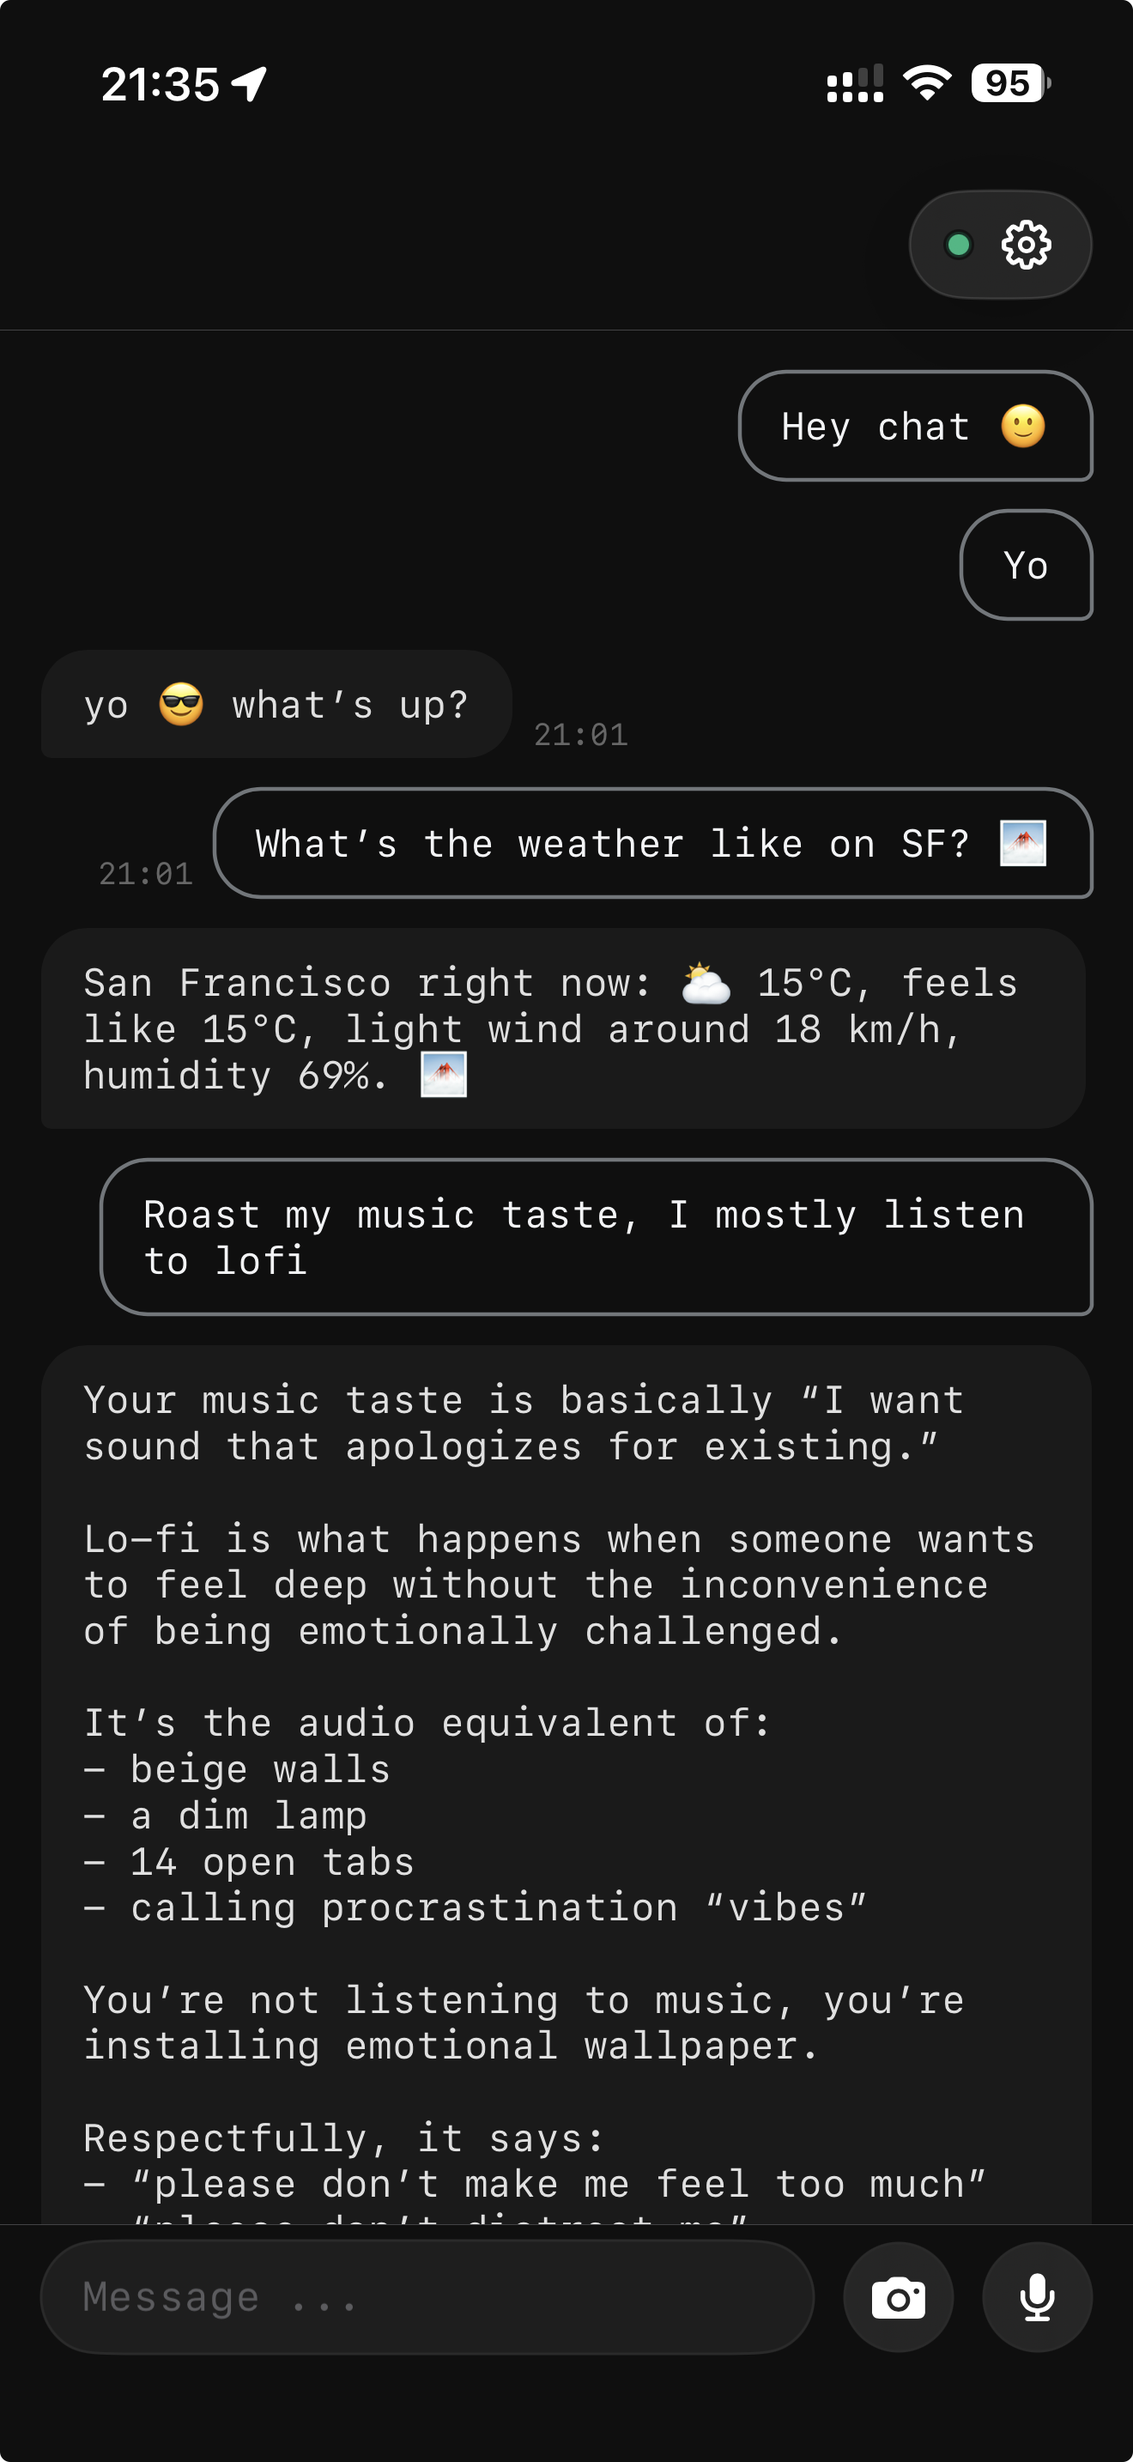
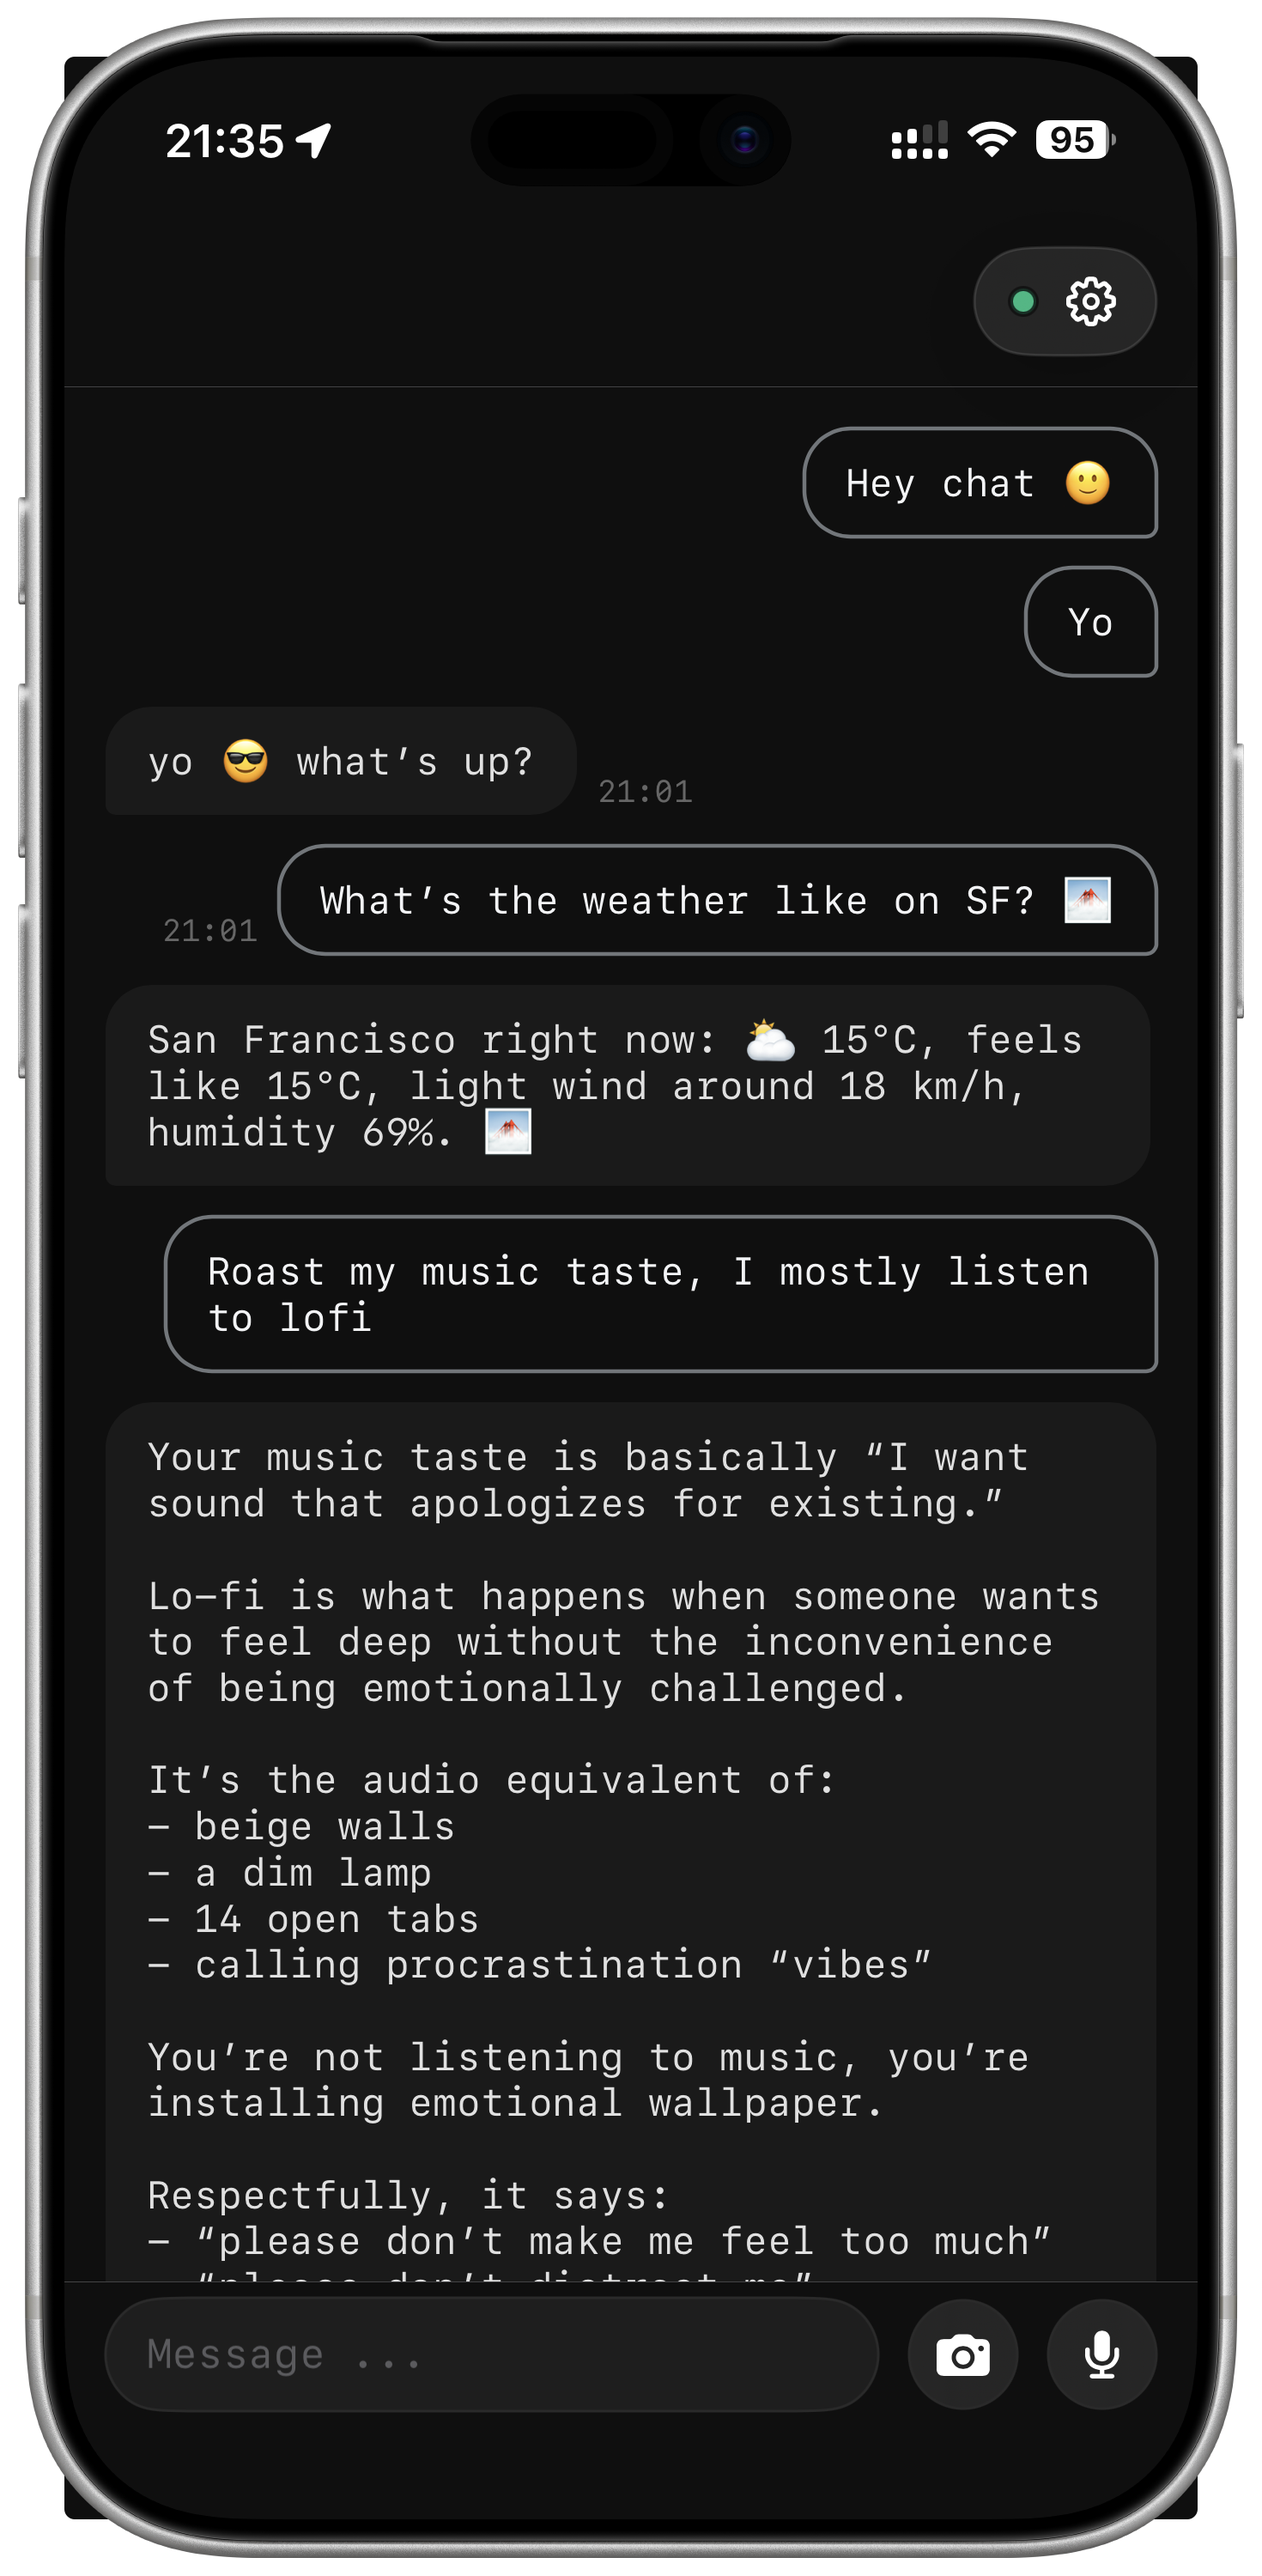
Stack screenshots vertically and frame iPhone in bezel

Changed region(s): [[0.0, 0.0, 1.0, 1.0], [0.5902, 0.8689, 0.6523, 0.8999], [0.7455, 0.8068, 0.7765, 0.8379]]

diff --git a/README.md b/README.md
@@ -19,12 +19,15 @@ Beautiful. End-to-end encrypted. Zero-knowledge relay. No middleman reads a thin
 
 <div align="center">
 
-<table>
-<tr>
-<td align="center" width="50%"><img src="docs/images/iphone.png" alt="chat94 on iPhone" width="320" /><br/><sub><b>iPhone</b></sub></td>
-<td align="center" width="50%"><img src="docs/images/mac.png" alt="chat94 on Mac" width="480" /><br/><sub><b>Mac</b></sub></td>
-</tr>
-</table>
+<img src="docs/images/iphone.png" alt="chat94 on iPhone" width="280" />
+
+<sub><b>iPhone</b></sub>
+
+<br/><br/>
+
+<img src="docs/images/mac.png" alt="chat94 on Mac" width="820" />
+
+<sub><b>Mac</b></sub>
 
 </div>
 
@@ -165,10 +168,8 @@ Copyright © 2026 NeonNode Limited. All rights reserved.
 
 **Commercial licensing:** Want to use chat94 in a way GPL-3.0 doesn't allow (e.g. proprietary/closed-source use)? Reach out at contact@chat94.com.
 
----
-
 <div align="center">
 
-Made with ☕ by [NeonNode](https://chat94.com)
+Built by [NeonNode](https://chat94.com)
 
 </div>
